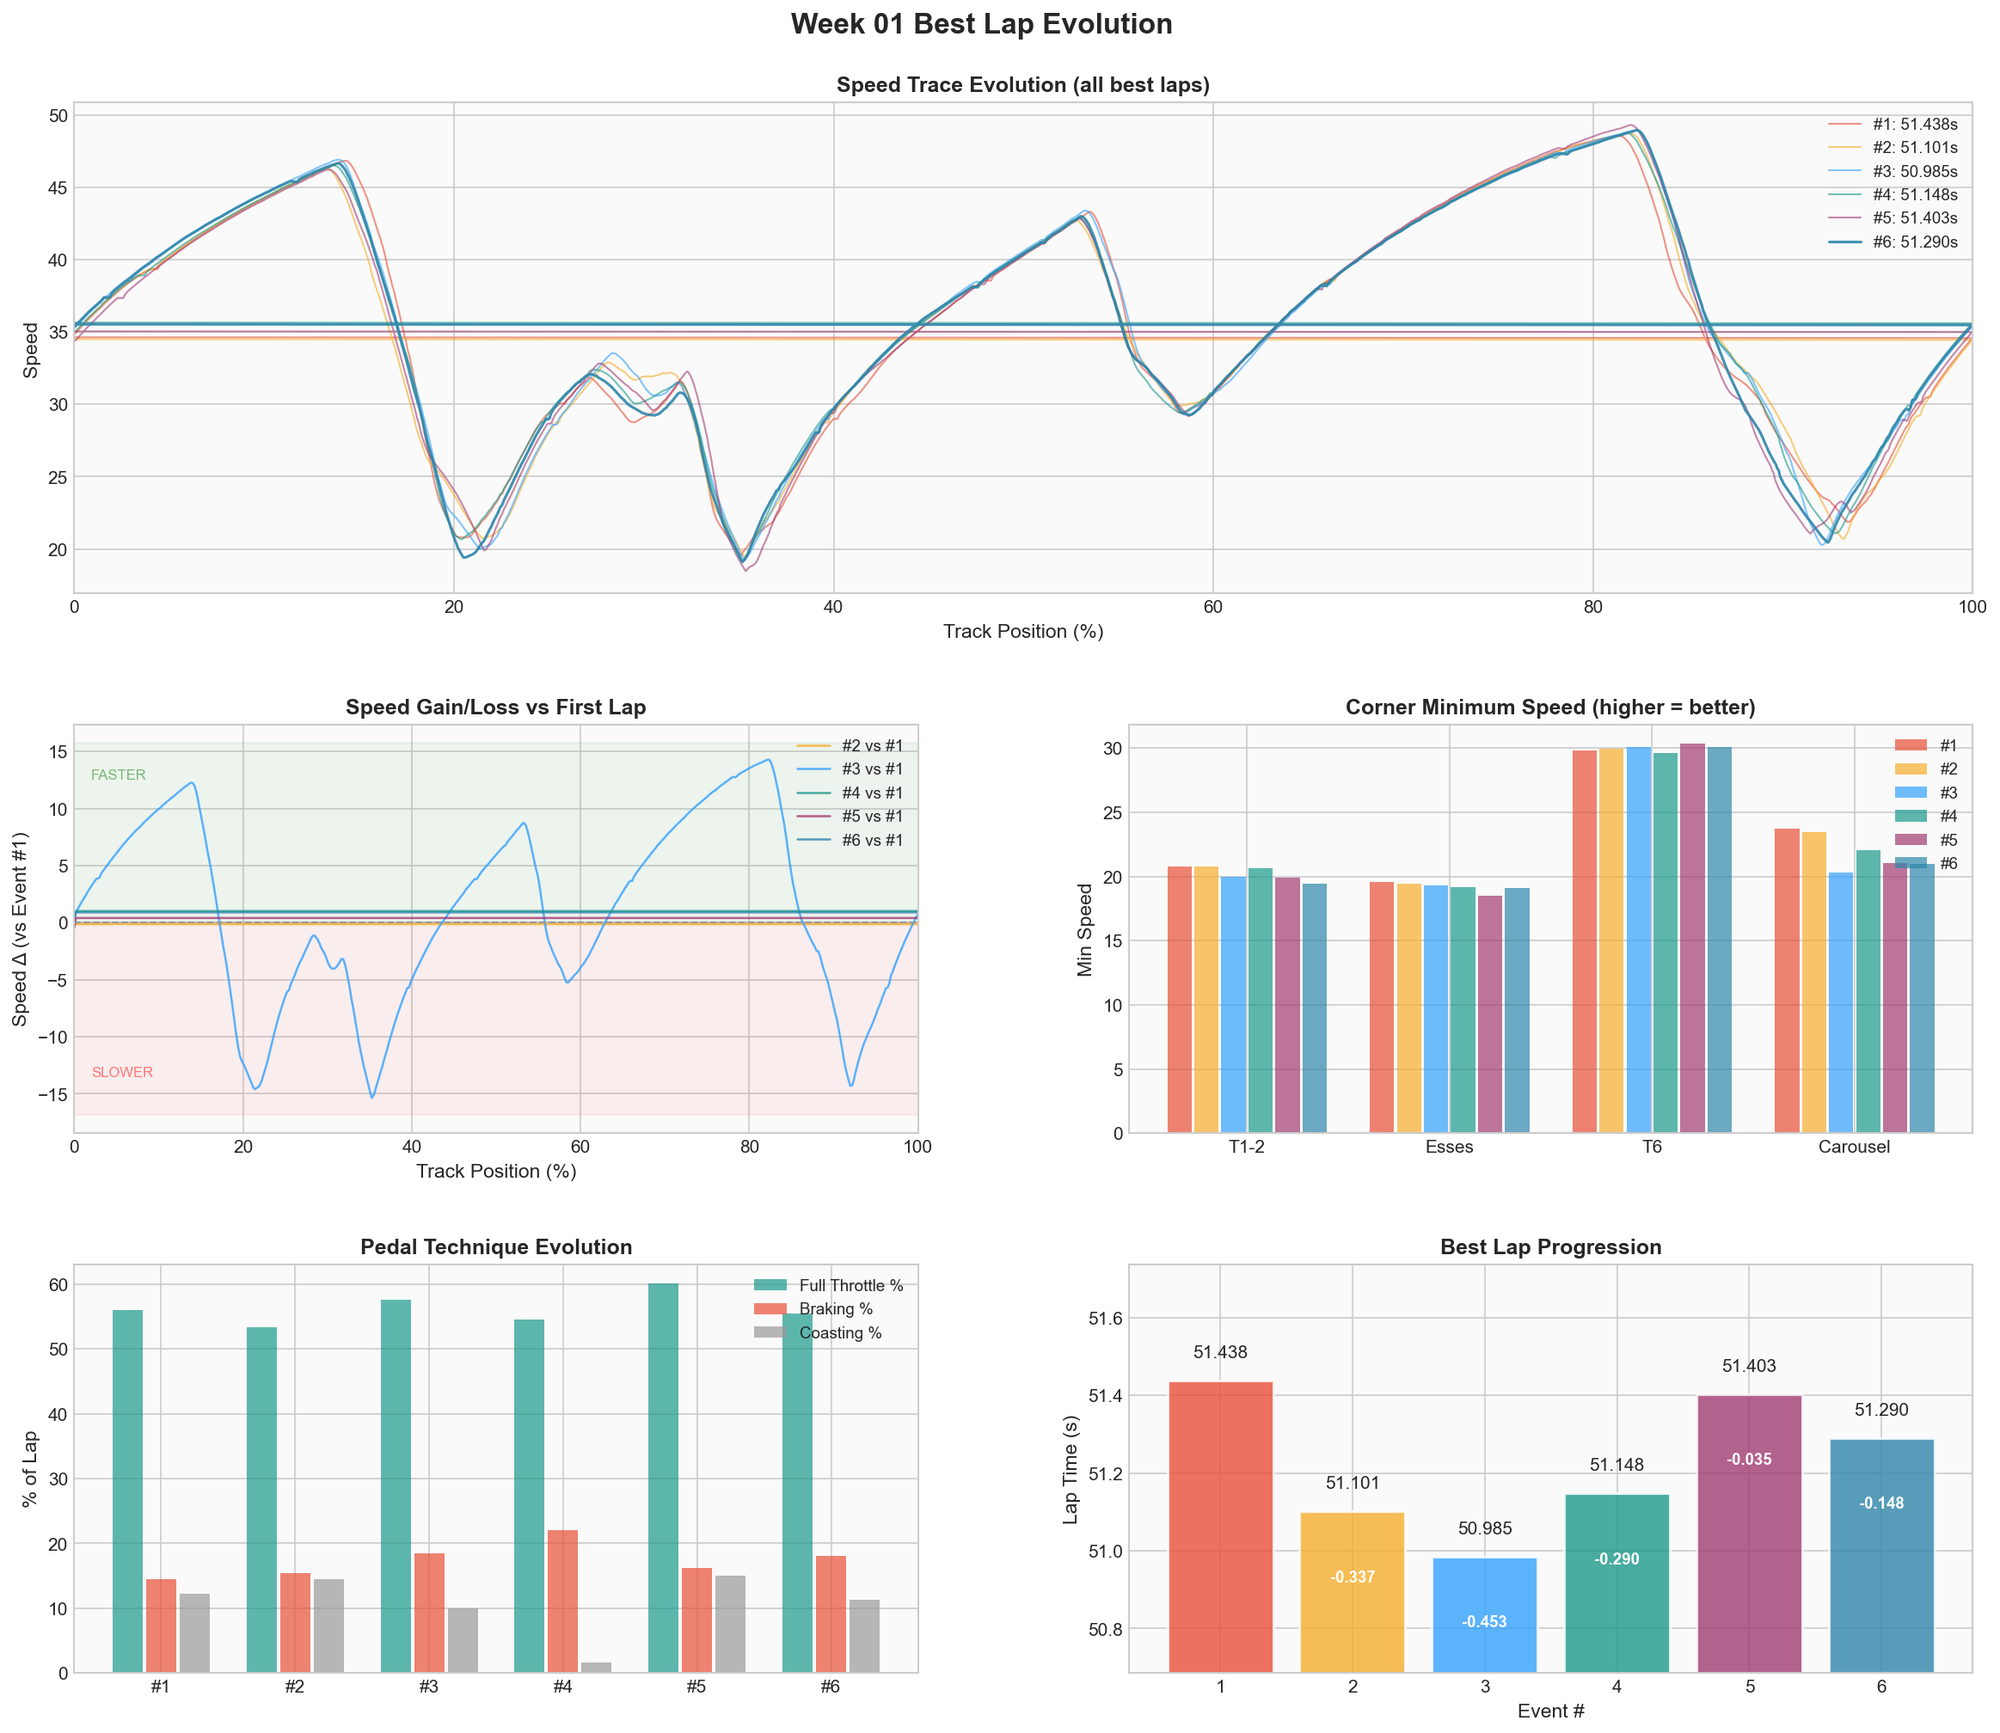
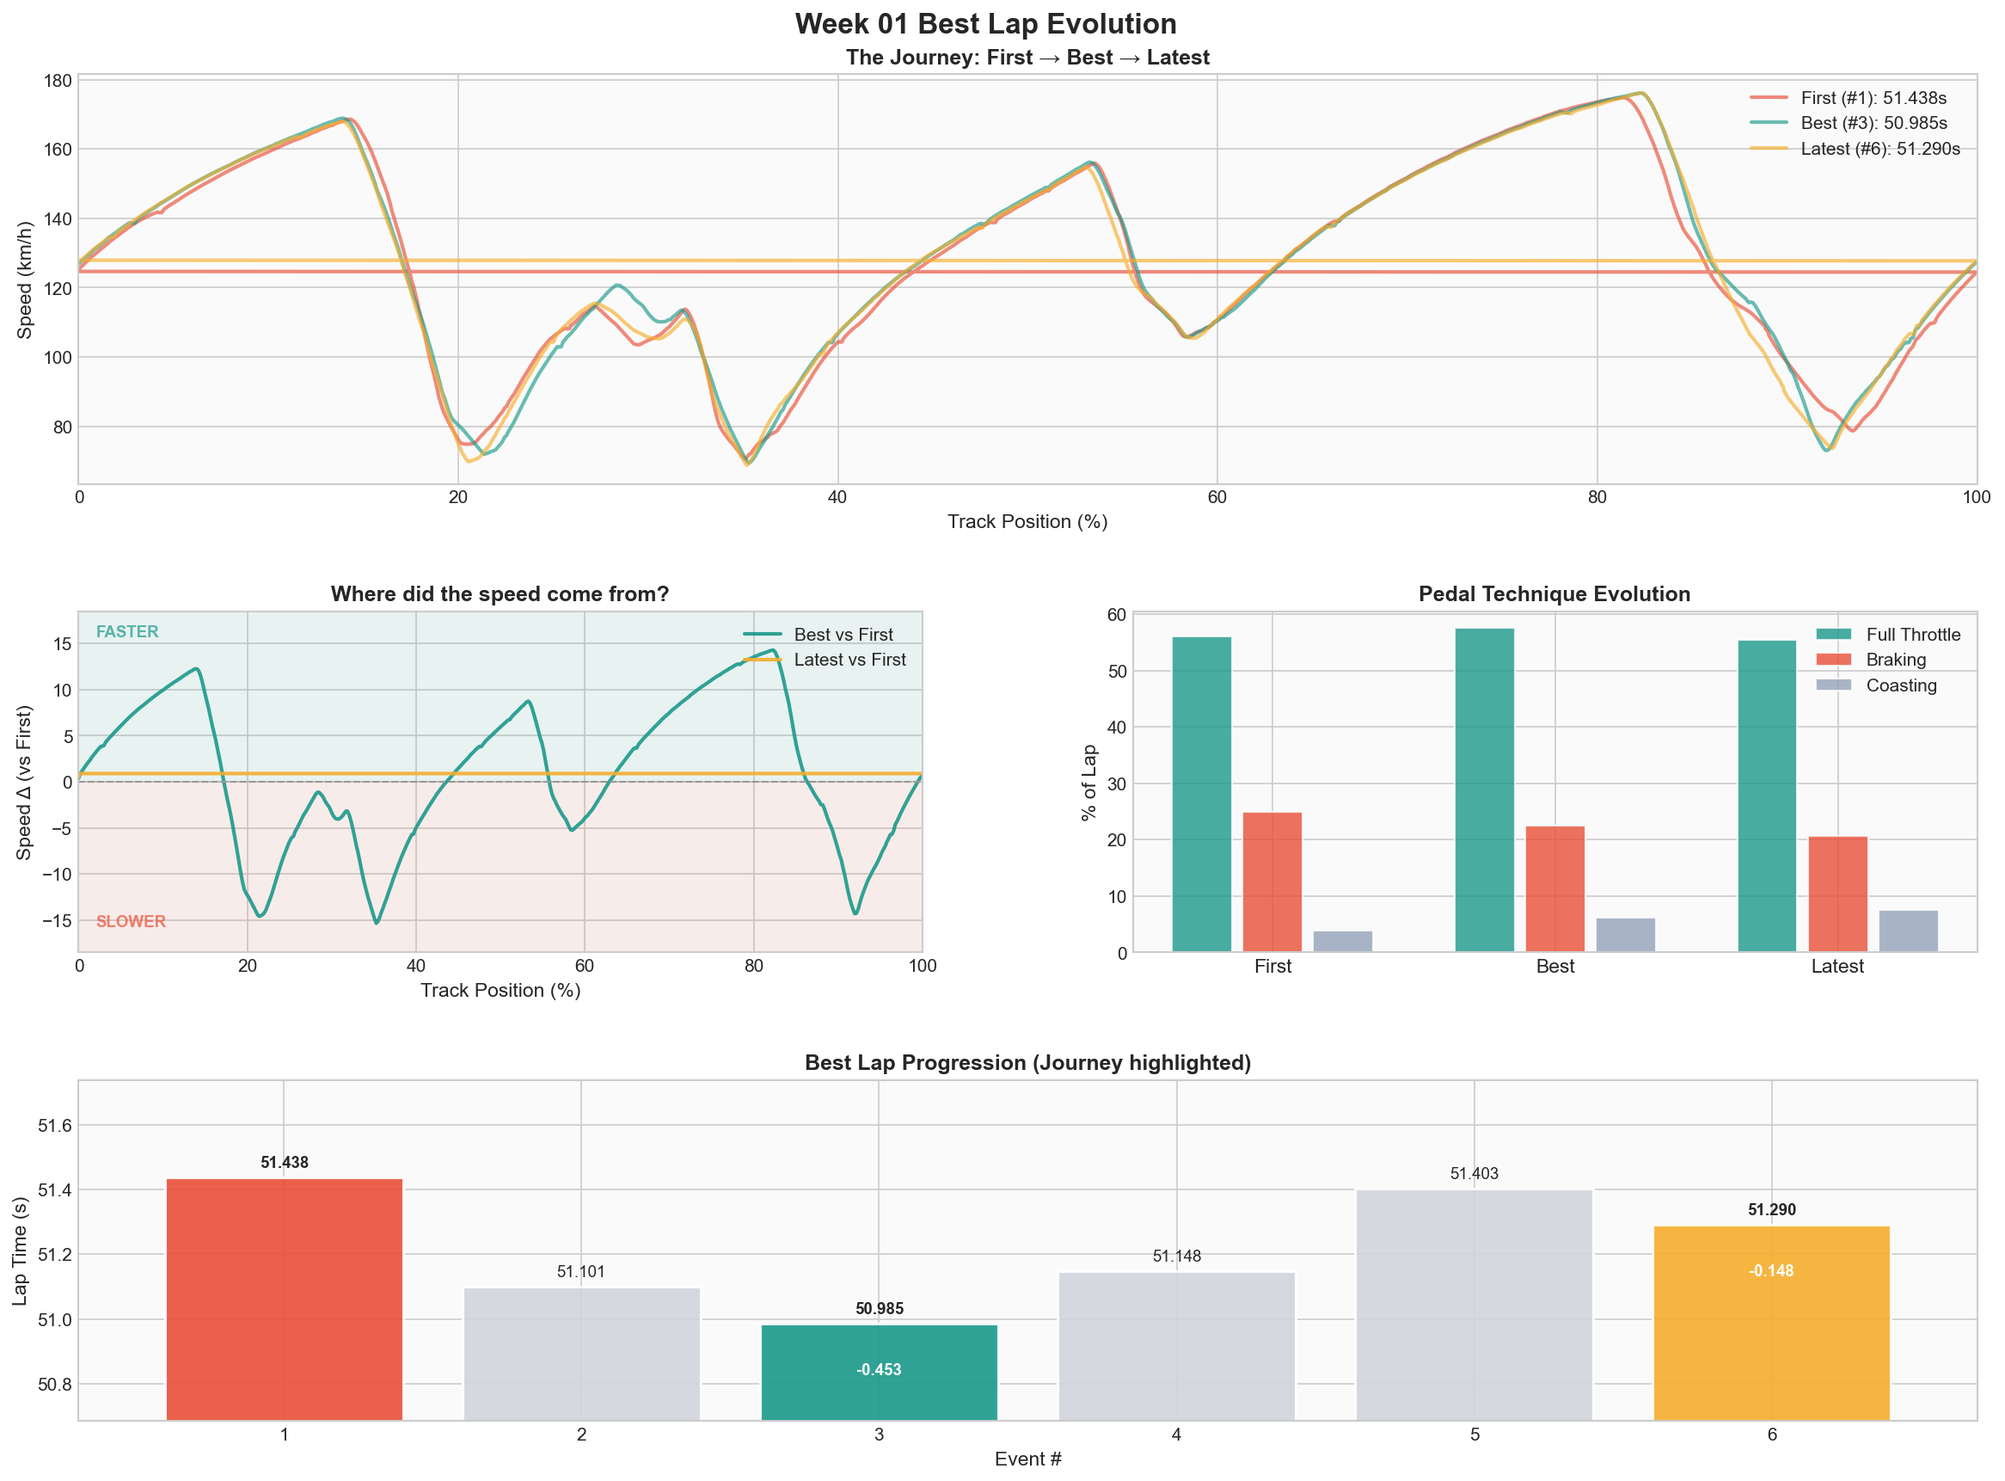
Enhance lap comparison visualization: focus on the journey of the first, best, and latest laps with improved layout and clarity. Update speed trace and delta analysis to highlight performance evolution, refine technique metrics, and adjust visual annotations for better insights. Update documentation

diff --git a/tools/compare_laps.py b/tools/compare_laps.py
@@ -129,170 +129,189 @@ def create_comparison_visualization(
     title: str = "Lap Comparison",
     output_path: Path = None
 ):
-    """Create a comprehensive lap comparison visualization."""
+    """Create a focused lap comparison visualization showing The Journey: First → Best → Latest."""
     
     n_laps = len(laps)
     if n_laps < 2:
         print("❌ Need at least 2 laps to compare!")
         return
     
-    # Create figure
-    fig = plt.figure(figsize=(16, 14))
+    # === THE JOURNEY: Select First, Best, Latest ===
+    first_lap = laps[0]
+    best_idx = min(range(len(laps)), key=lambda i: laps[i][1]['lap_time'])
+    best_lap = laps[best_idx]
+    latest_lap = laps[-1]
+    
+    # Build journey laps (deduplicate if best=first or best=latest)
+    journey_laps = []
+    journey_labels = []
+    journey_colors = ['#E94F37', '#1B998B', '#F6AE2D']  # Red (First), Teal (Best), Yellow (Latest)
+    
+    journey_laps.append(first_lap)
+    journey_labels.append(f"First (#{first_lap[1]['event_num']}): {first_lap[1]['lap_time']:.3f}s")
+    
+    if best_idx != 0 and best_idx != len(laps) - 1:
+        journey_laps.append(best_lap)
+        journey_labels.append(f"Best (#{best_lap[1]['event_num']}): {best_lap[1]['lap_time']:.3f}s")
+    
+    if len(laps) > 1:
+        journey_laps.append(latest_lap)
+        best_marker = " ⭐" if best_idx == len(laps) - 1 else ""
+        journey_labels.append(f"Latest (#{latest_lap[1]['event_num']}): {latest_lap[1]['lap_time']:.3f}s{best_marker}")
+    
+    n_journey = len(journey_laps)
+    
+    # Create figure - cleaner 3-row layout (removed corner speed chart)
+    fig = plt.figure(figsize=(16, 12))
     
     gs = fig.add_gridspec(3, 2, height_ratios=[1.2, 1, 1],
-                          hspace=0.3, wspace=0.25,
-                          left=0.06, right=0.98, top=0.92, bottom=0.05)
+                          hspace=0.35, wspace=0.25,
+                          left=0.06, right=0.98, top=0.93, bottom=0.06)
     
     fig.suptitle(title, fontsize=16, fontweight='bold', y=0.97)
     
-    # ========== 1. SPEED TRACE OVERLAY (full width) ==========
+    # ========== 1. SPEED TRACE: THE JOURNEY (full width) ==========
     ax1 = fig.add_subplot(gs[0, :])
     ax1.set_facecolor('#FAFAFA')
     
-    for i, (df, info) in enumerate(laps):
-        color = LAP_COLORS[i % len(LAP_COLORS)]
-        label = f"#{info['event_num']}: {info['lap_time']:.3f}s"
-        ax1.plot(df['TrackPct'], df['Speed'], color=color, 
-                linewidth=1.5 if i == len(laps)-1 else 1.0,
-                alpha=0.9 if i == len(laps)-1 else 0.6,
-                label=label)
+    # Plot all three with equal weight - let the delta chart below tell the details
+    for i, ((df, info), label) in enumerate(zip(journey_laps, journey_labels)):
+        color = journey_colors[i % len(journey_colors)]
+        ax1.plot(df['TrackPct'], df['Speed'] * 3.6, color=color, 
+                linewidth=2.0, alpha=0.65, label=label)
     
     ax1.set_xlabel('Track Position (%)', fontsize=11)
-    ax1.set_ylabel('Speed', fontsize=11)
-    ax1.set_title('Speed Trace Evolution (all best laps)', fontsize=12, fontweight='bold')
+    ax1.set_ylabel('Speed (km/h)', fontsize=11)
+    ax1.set_title('The Journey: First → Best → Latest', fontsize=12, fontweight='bold')
     ax1.set_xlim(0, 100)
-    ax1.legend(loc='upper right', fontsize=9)
+    ax1.legend(loc='upper right', fontsize=10, framealpha=0.95)
     
-    # ========== 2. SPEED DIFFERENCE FROM FIRST LAP (left) ==========
+    # ========== 2. SPEED DELTA: Where did the time come from? (left) ==========
     ax2 = fig.add_subplot(gs[1, 0])
     ax2.set_facecolor('#FAFAFA')
     
-    ref_df = laps[0][0]  # First lap as reference
+    ref_df = first_lap[0]  # First lap as reference
     track_positions = np.linspace(0, 100, 500)
     ref_speed = np.interp(track_positions, ref_df['TrackPct'], ref_df['Speed'])
     
-    for i, (df, info) in enumerate(laps[1:], start=1):  # Skip first lap
-        color = LAP_COLORS[i % len(LAP_COLORS)]
+    # Only show Best and Latest vs First (cleaner)
+    compare_laps = [(best_lap, 'Best', '#1B998B'), (latest_lap, 'Latest', '#F6AE2D')]
+    if best_idx == len(laps) - 1:
+        compare_laps = [(latest_lap, 'Latest (Best)', '#1B998B')]
+    elif best_idx == 0:
+        compare_laps = [(latest_lap, 'Latest', '#F6AE2D')]
+    
+    for (df, info), label, color in compare_laps:
         compare_speed = np.interp(track_positions, df['TrackPct'], df['Speed'])
         speed_diff = compare_speed - ref_speed  # Positive = faster
-        
-        label = f"#{info['event_num']} vs #1"
-        ax2.plot(track_positions, speed_diff, color=color, linewidth=1.2, 
-                alpha=0.8, label=label)
+        ax2.plot(track_positions, speed_diff, color=color, linewidth=2, 
+                alpha=0.9, label=f"{label} vs First")
     
     ax2.axhline(y=0, color='#999', linewidth=1, linestyle='--')
-    ax2.fill_between(track_positions, 0, 0, alpha=0)  # Dummy for consistent ylim
     
     ax2.set_xlabel('Track Position (%)', fontsize=11)
-    ax2.set_ylabel('Speed Δ (vs Event #1)', fontsize=11)
-    ax2.set_title('Speed Gain/Loss vs First Lap', fontsize=12, fontweight='bold')
+    ax2.set_ylabel('Speed Δ (vs First)', fontsize=11)
+    ax2.set_title('Where did the speed come from?', fontsize=12, fontweight='bold')
     ax2.set_xlim(0, 100)
-    ax2.legend(loc='upper right', fontsize=9)
+    ax2.legend(loc='upper right', fontsize=10)
     
     # Add green/red zones
     ylim = ax2.get_ylim()
-    ax2.fill_between([0, 100], [0, 0], [ylim[1], ylim[1]], alpha=0.05, color='green')
-    ax2.fill_between([0, 100], [ylim[0], ylim[0]], [0, 0], alpha=0.05, color='red')
-    ax2.text(2, ylim[1]*0.8, 'FASTER', fontsize=8, color='green', alpha=0.5)
-    ax2.text(2, ylim[0]*0.8, 'SLOWER', fontsize=8, color='red', alpha=0.5)
+    max_y = max(abs(ylim[0]), abs(ylim[1]))
+    ax2.set_ylim(-max_y * 1.1, max_y * 1.1)
+    ylim = ax2.get_ylim()
+    ax2.fill_between([0, 100], [0, 0], [ylim[1], ylim[1]], alpha=0.08, color='#1B998B')
+    ax2.fill_between([0, 100], [ylim[0], ylim[0]], [0, 0], alpha=0.08, color='#E94F37')
+    ax2.text(2, ylim[1]*0.85, 'FASTER', fontsize=9, color='#1B998B', fontweight='bold', alpha=0.7)
+    ax2.text(2, ylim[0]*0.85, 'SLOWER', fontsize=9, color='#E94F37', fontweight='bold', alpha=0.7)
     
-    # ========== 3. MIN CORNER SPEED PROGRESSION (right) ==========
-    ax3 = fig.add_subplot(gs[1, 1])
-    ax3.set_facecolor('#FAFAFA')
+    # Build journey short labels for charts
+    journey_short_labels = ['First', 'Best', 'Latest'][:n_journey]
+    if best_idx == len(laps) - 1:
+        journey_short_labels = ['First', 'Latest ⭐']
+    elif best_idx == 0:
+        journey_short_labels = ['First ⭐', 'Latest']
     
-    # Define approximate corner locations (percentage of track)
-    # For Jefferson Circuit - these are rough estimates based on speed trace
-    corners = {
-        'T1-2': (12, 22),
-        'Esses': (28, 42),
-        'T6': (48, 58),
-        'Carousel': (72, 92),
-    }
-    
-    corner_names = list(corners.keys())
-    x_pos = np.arange(len(corner_names))
-    bar_width = 0.8 / n_laps
-    
-    for i, (df, info) in enumerate(laps):
-        min_speeds = []
-        for corner_name, (start, end) in corners.items():
-            mask = (df['TrackPct'] >= start) & (df['TrackPct'] <= end)
-            min_speed = df.loc[mask, 'Speed'].min() if mask.any() else 0
-            min_speeds.append(min_speed)
-        
-        color = LAP_COLORS[i % len(LAP_COLORS)]
-        offset = (i - n_laps/2 + 0.5) * bar_width
-        bars = ax3.bar(x_pos + offset, min_speeds, bar_width * 0.9, 
-                      color=color, alpha=0.7, label=f"#{info['event_num']}")
-    
-    ax3.set_xticks(x_pos)
-    ax3.set_xticklabels(corner_names, fontsize=10)
-    ax3.set_ylabel('Min Speed', fontsize=11)
-    ax3.set_title('Corner Minimum Speed (higher = better)', fontsize=12, fontweight='bold')
-    ax3.legend(loc='upper right', fontsize=9)
-    
-    # ========== 4. TECHNIQUE METRICS (left) ==========
-    ax4 = fig.add_subplot(gs[2, 0])
+    # ========== 3. TECHNIQUE: The Journey metrics (right of delta) ==========
+    ax4 = fig.add_subplot(gs[1, 1])
     ax4.set_facecolor('#FAFAFA')
     
     metrics = {
-        'Full Throttle %': [],
-        'Braking %': [],
-        'Coasting %': [],
+        'Full Throttle': [],
+        'Braking': [],
+        'Coasting': [],
     }
     
-    for df, info in laps:
-        full_throttle = (df['Throttle'] > 0.95).sum() / len(df) * 100
-        braking = (df['Brake'] > 0.1).sum() / len(df) * 100
-        coasting = ((df['Throttle'] < 0.1) & (df['Brake'] < 0.1)).sum() / len(df) * 100
-        
-        metrics['Full Throttle %'].append(full_throttle)
-        metrics['Braking %'].append(braking)
-        metrics['Coasting %'].append(coasting)
+    # Use same thresholds as visualize_telemetry.py
+    throttle_threshold = 0.05  # 5% = on throttle
+    brake_threshold = 0.01     # 1% = truly off brake (trail braking counts as braking)
     
-    x_pos = np.arange(n_laps)
+    for df, info in journey_laps:
+        full_throttle = (df['Throttle'] > 0.95).sum() / len(df) * 100
+        braking = (df['Brake'] > brake_threshold).sum() / len(df) * 100
+        coasting = ((df['Throttle'] < throttle_threshold) & (df['Brake'] < brake_threshold)).sum() / len(df) * 100
+        
+        metrics['Full Throttle'].append(full_throttle)
+        metrics['Braking'].append(braking)
+        metrics['Coasting'].append(coasting)
+    
+    x_pos = np.arange(n_journey)
     bar_width = 0.25
     
+    metric_colors = ['#1B998B', '#E94F37', '#94A3B8']
     for j, (metric_name, values) in enumerate(metrics.items()):
         offset = (j - 1) * bar_width
-        color = ['#1B998B', '#E94F37', '#999'][j]
-        ax4.bar(x_pos + offset, values, bar_width * 0.9, 
-               color=color, alpha=0.7, label=metric_name)
+        ax4.bar(x_pos + offset, values, bar_width * 0.85, 
+               color=metric_colors[j], alpha=0.8, label=metric_name, edgecolor='white', linewidth=1)
     
     ax4.set_xticks(x_pos)
-    ax4.set_xticklabels([f"#{info['event_num']}" for _, info in laps], fontsize=10)
+    ax4.set_xticklabels(journey_short_labels, fontsize=11)
     ax4.set_ylabel('% of Lap', fontsize=11)
     ax4.set_title('Pedal Technique Evolution', fontsize=12, fontweight='bold')
-    ax4.legend(loc='upper right', fontsize=9)
+    ax4.legend(loc='upper right', fontsize=10)
     
-    # ========== 5. LAP TIME PROGRESSION (right) ==========
-    ax5 = fig.add_subplot(gs[2, 1])
+    # ========== 4. LAP TIME: Full progression with journey highlighted (full width) ==========
+    ax5 = fig.add_subplot(gs[2, :])
     ax5.set_facecolor('#FAFAFA')
     
     lap_times = [info['lap_time'] for _, info in laps]
     event_nums = [info['event_num'] for _, info in laps]
     
-    bars = ax5.bar(event_nums, lap_times, color=[LAP_COLORS[i % len(LAP_COLORS)] for i in range(n_laps)],
-                  alpha=0.8, edgecolor='white', linewidth=1.5)
+    # Color bars: journey events highlighted, others muted
+    bar_colors = []
+    for i, (_, info) in enumerate(laps):
+        if i == 0:
+            bar_colors.append('#E94F37')  # First
+        elif i == best_idx:
+            bar_colors.append('#1B998B')  # Best
+        elif i == len(laps) - 1:
+            bar_colors.append('#F6AE2D')  # Latest (yellow)
+        else:
+            bar_colors.append('#D1D5DB')  # Others (muted)
+    
+    bars = ax5.bar(event_nums, lap_times, color=bar_colors,
+                  alpha=0.9, edgecolor='white', linewidth=1.5)
     
     # Add lap time labels
-    for bar, lap_time in zip(bars, lap_times):
-        ax5.text(bar.get_x() + bar.get_width()/2, bar.get_height() + 0.05,
-                f'{lap_time:.3f}', ha='center', va='bottom', fontsize=10)
+    for i, (bar, lap_time) in enumerate(zip(bars, lap_times)):
+        fontweight = 'bold' if i in [0, best_idx, len(laps)-1] else 'normal'
+        ax5.text(bar.get_x() + bar.get_width()/2, bar.get_height() + 0.02,
+                f'{lap_time:.3f}', ha='center', va='bottom', fontsize=9, fontweight=fontweight)
     
-    # Add delta labels
-    for i in range(1, len(lap_times)):
-        delta = lap_times[i] - lap_times[0]
-        color = '#1B998B' if delta < 0 else '#E94F37'
-        ax5.text(event_nums[i], lap_times[i] - 0.15,
-                f'{delta:+.3f}', ha='center', va='top', fontsize=9,
-                fontweight='bold', color='white')
+    # Add delta labels for highlighted events only
+    first_time = lap_times[0]
+    for i in [best_idx, len(laps)-1]:
+        if i > 0:
+            delta = lap_times[i] - first_time
+            ax5.text(event_nums[i], lap_times[i] - 0.12,
+                    f'{delta:+.3f}', ha='center', va='top', fontsize=9,
+                    fontweight='bold', color='white')
     
     ax5.set_xlabel('Event #', fontsize=11)
     ax5.set_ylabel('Lap Time (s)', fontsize=11)
-    ax5.set_title('Best Lap Progression', fontsize=12, fontweight='bold')
+    ax5.set_title('Best Lap Progression (Journey highlighted)', fontsize=12, fontweight='bold')
     
-    # Adjust y-axis to show differences clearly
+    # Adjust y-axis
     y_min = min(lap_times) - 0.3
     y_max = max(lap_times) + 0.3
     ax5.set_ylim(y_min, y_max)
@@ -359,8 +378,11 @@ def print_comparison_summary(laps: list[tuple[pd.DataFrame, dict]], corners: dic
     first_df = laps[0][0]
     last_df = laps[-1][0]
     
-    coast_first = ((first_df['Throttle'] < 0.1) & (first_df['Brake'] < 0.1)).sum() / len(first_df) * 100
-    coast_last = ((last_df['Throttle'] < 0.1) & (last_df['Brake'] < 0.1)).sum() / len(last_df) * 100
+    # Use same thresholds as visualize_telemetry.py
+    throttle_threshold = 0.05
+    brake_threshold = 0.01
+    coast_first = ((first_df['Throttle'] < throttle_threshold) & (first_df['Brake'] < brake_threshold)).sum() / len(first_df) * 100
+    coast_last = ((last_df['Throttle'] < throttle_threshold) & (last_df['Brake'] < brake_threshold)).sum() / len(last_df) * 100
     
     print(f"   Coasting: {coast_first:.1f}% → {coast_last:.1f}% ({coast_last - coast_first:+.1f}%)")
     
@@ -395,8 +417,12 @@ def main():
     # Generate title
     title = args.title
     if not title:
-        week_name = args.directory.name.upper()
-        title = f"{week_name} – Learning Progression ({len(laps)} Best Laps)"
+        # Try parent dir if current is 'data'
+        dir_name = args.directory.name
+        if dir_name.lower() == 'data':
+            dir_name = args.directory.parent.name
+        week_name = dir_name.replace('week', 'Week ').title()
+        title = f"{week_name} Best Lap Evolution"
     
     # Output path
     output_path = args.output
